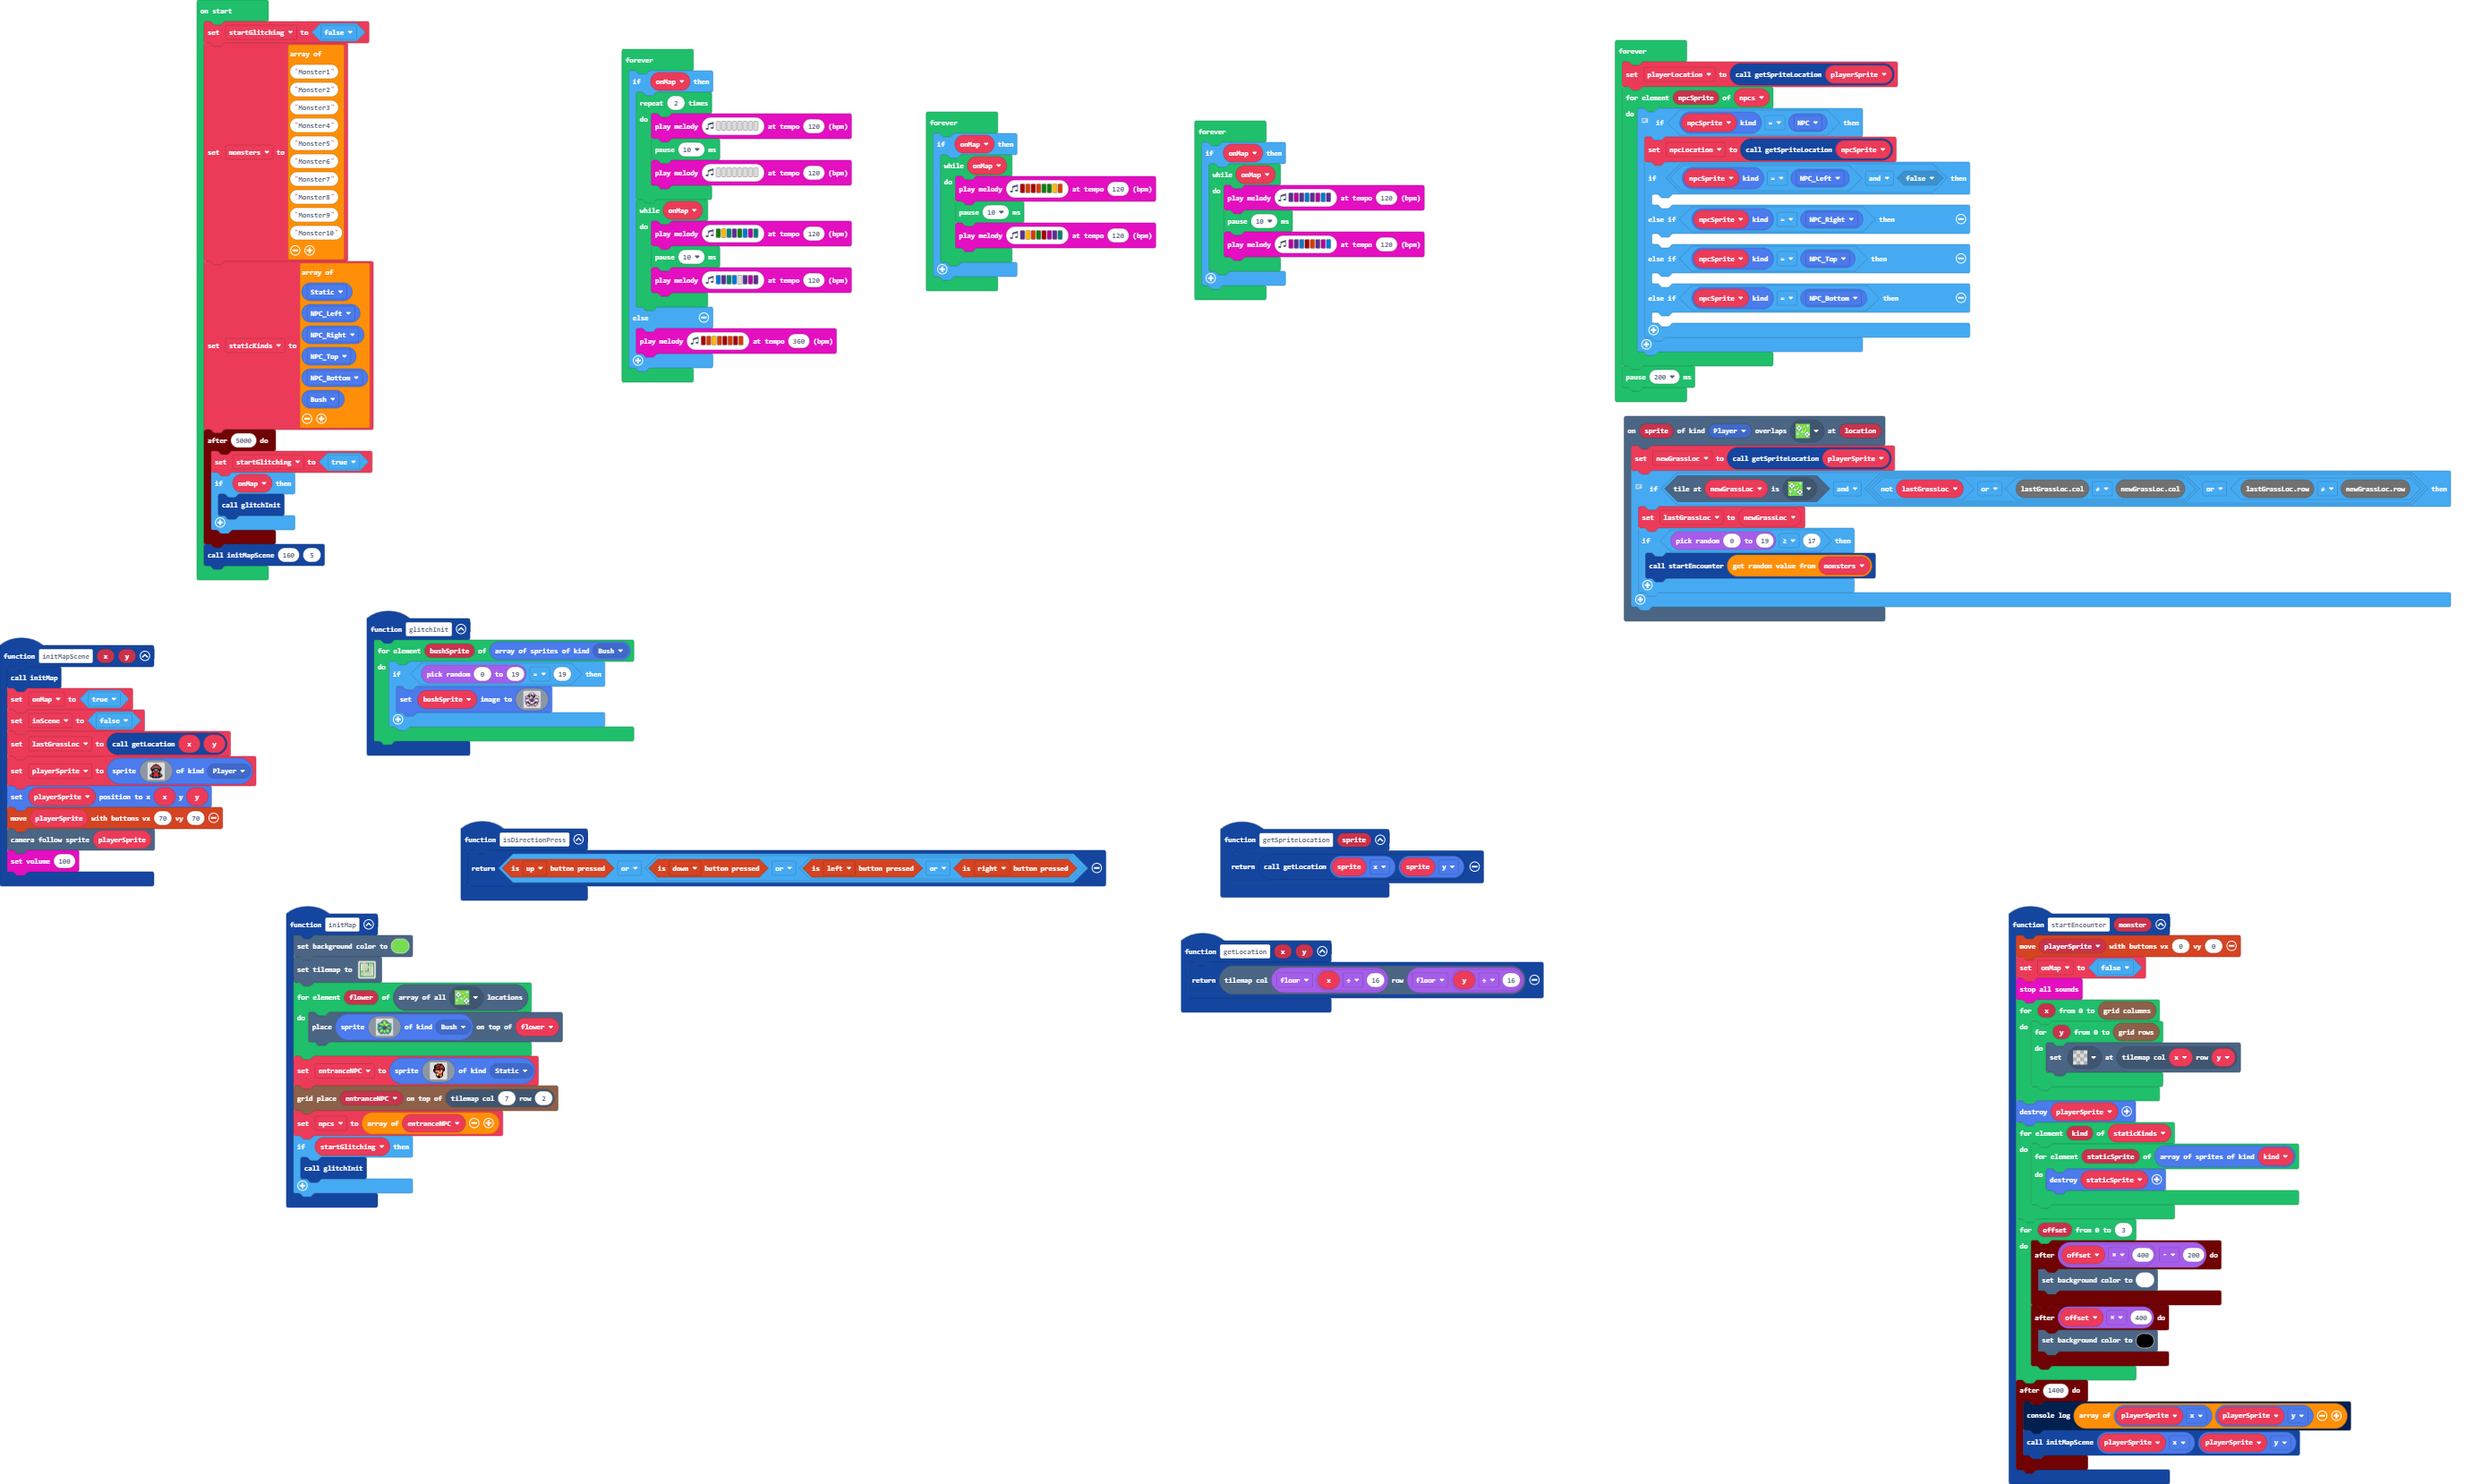
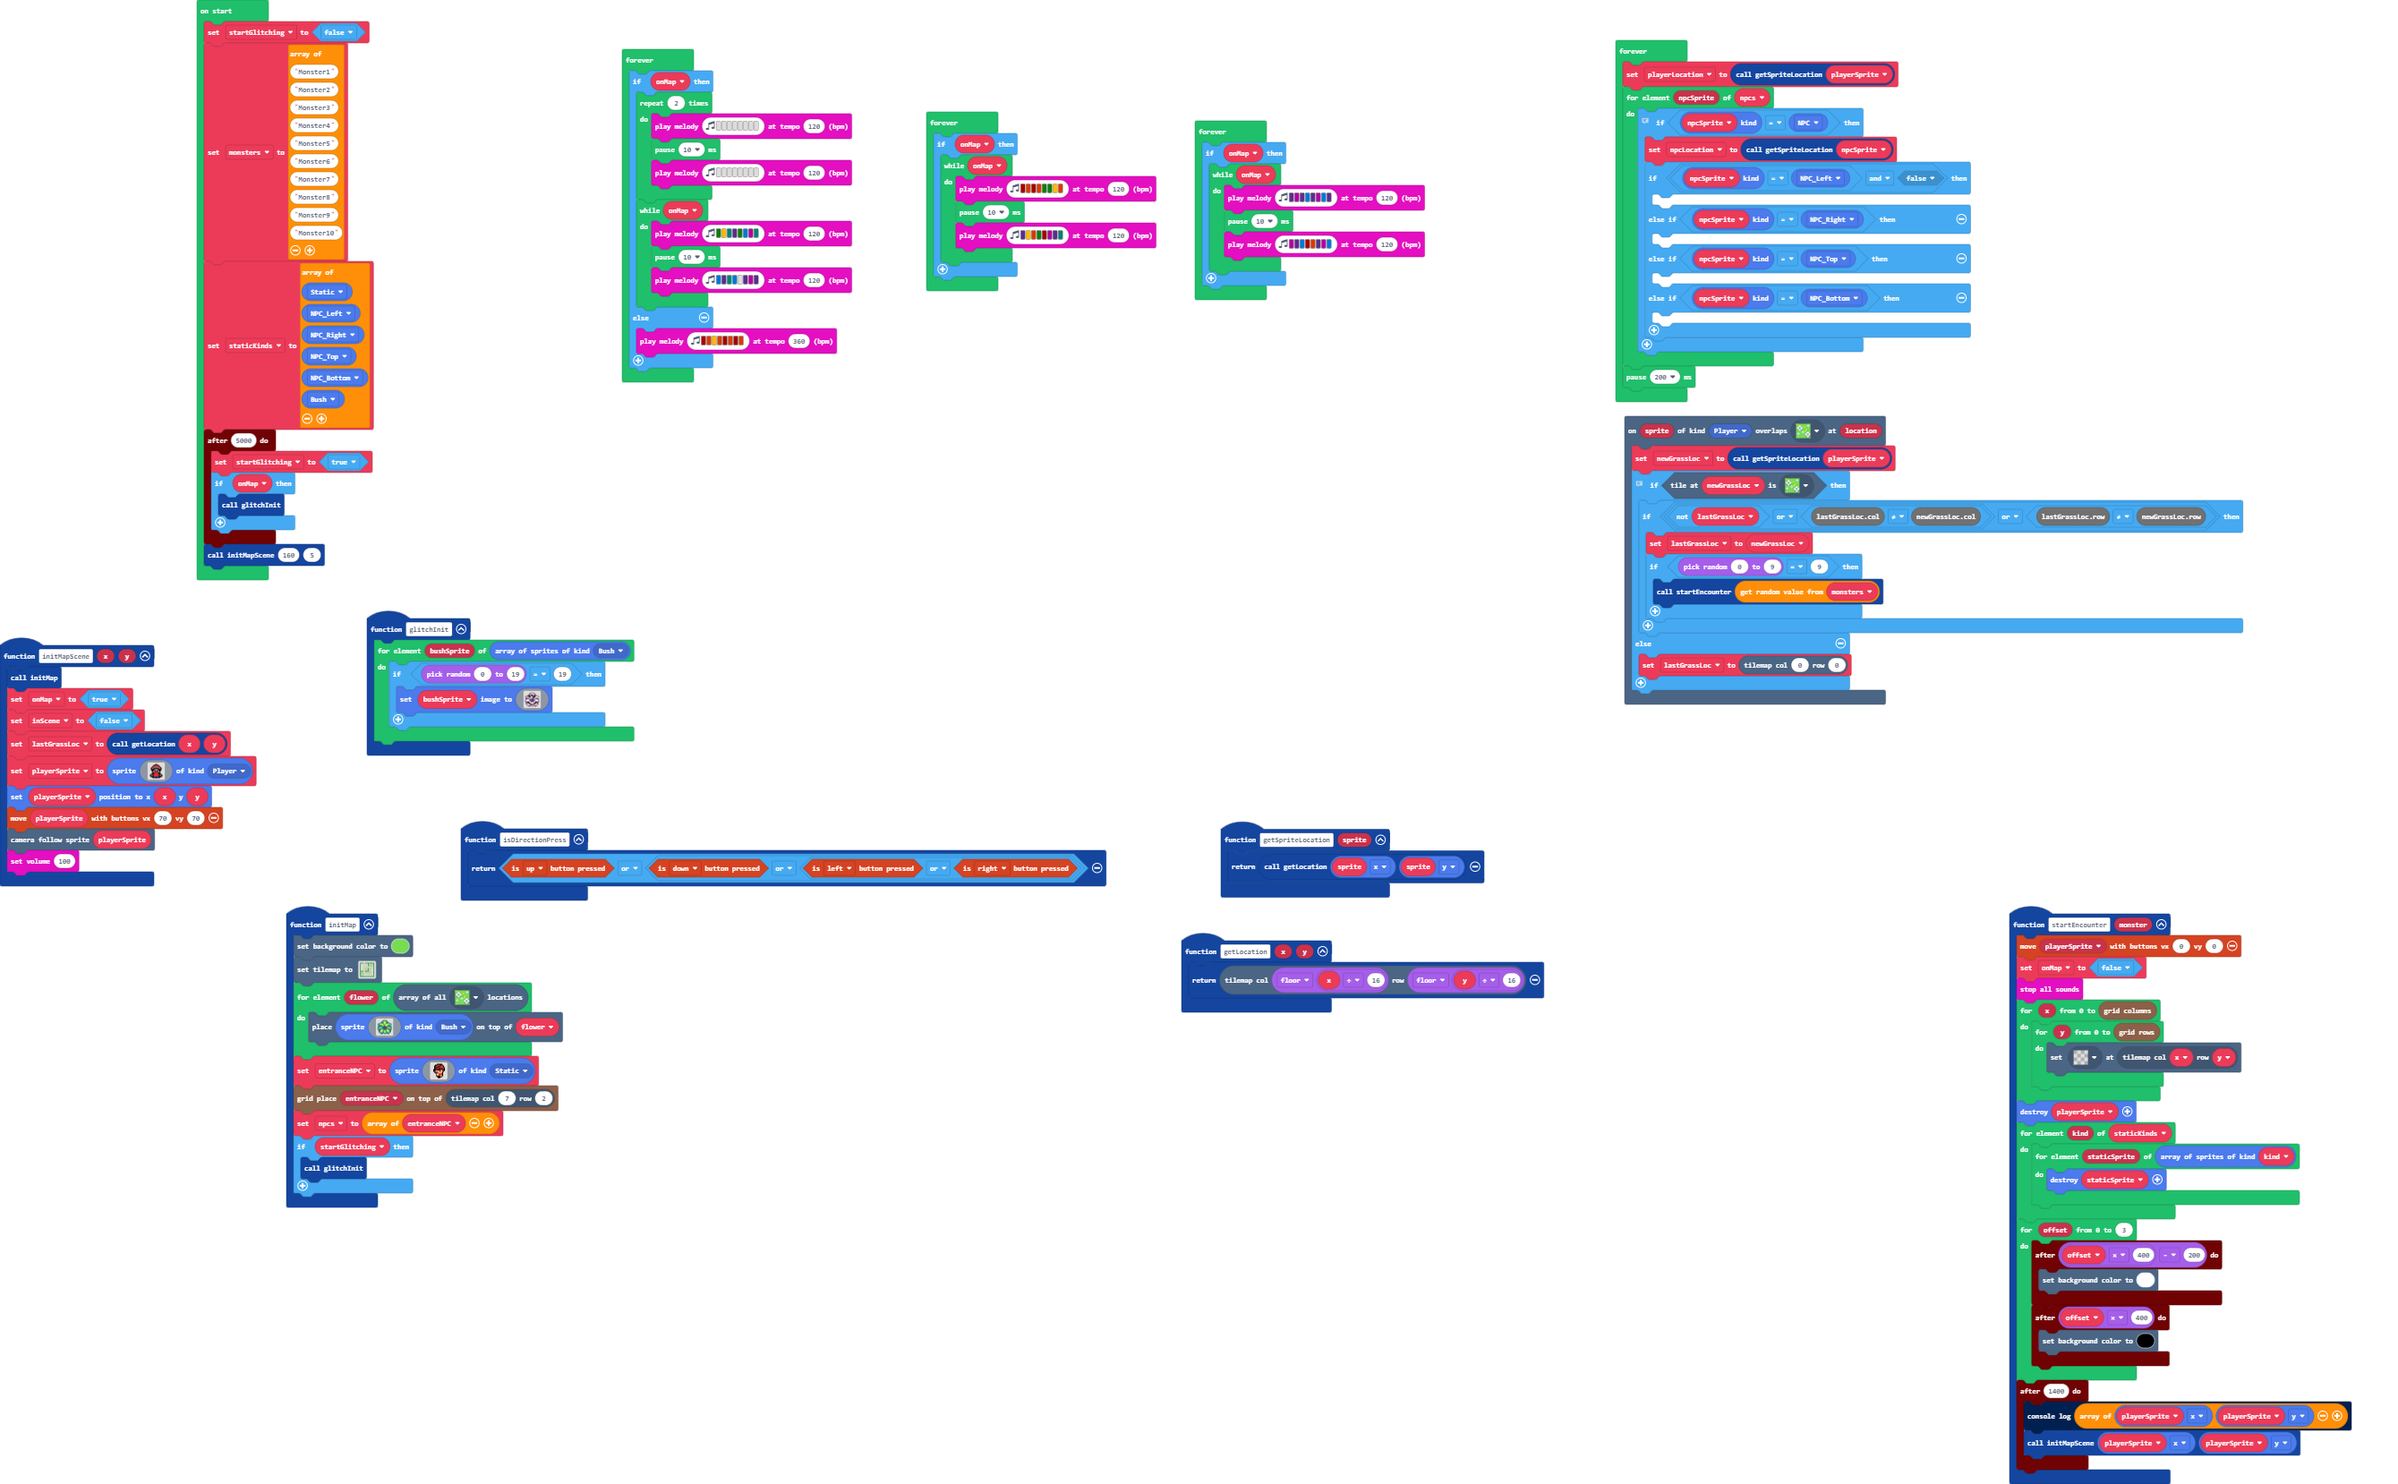
Update main.blocks, main.ts, tilemap.g.jres, tilemap.g.ts, images.g.jres, images.g.ts

diff --git a/tilemap.g.ts b/tilemap.g.ts
@@ -59,6 +59,25 @@ namespace myTiles {
 . . . . . . . . . . . . . . . . 
 . . . . . . . . . . . . . . . . 
 `, [], -Infinity);
+            case "level3":
+            case "level3":return tiles.createTilemap(hex`1000100000000000000000000000000000000000000000000000000000000000000000000000000000000000000000000000000000000000000000000000000000000000000000000000000000000000000000000000000000000000000000000000000000000000000000000000000000000000000000000000000000000000000000000000000000000000000000000000000000000000000000000000000000000000000000000000000000000000000000000000000000000000000000000000000000000000000000000000000000000000000000000000000000000000000000000000000000000000000000000000000000000000000000000000000000000000`, img`
+. . . . . . . . . . . . . . . . 
+. . . . . . . . . . . . . . . . 
+. . . . . . . . . . . . . . . . 
+. . . . . . . . . . . . . . . . 
+. . . . . . . . . . . . . . . . 
+. . . . . . . . . . . . . . . . 
+. . . . . . . . . . . . . . . . 
+. . . . . . . . . . . . . . . . 
+. . . . . . . . . . . . . . . . 
+. . . . . . . . . . . . . . . . 
+. . . . . . . . . . . . . . . . 
+. . . . . . . . . . . . . . . . 
+. . . . . . . . . . . . . . . . 
+. . . . . . . . . . . . . . . . 
+. . . . . . . . . . . . . . . . 
+. . . . . . . . . . . . . . . . 
+`, [myTiles.transparency16], TileScale.Sixteen);
         }
         return null;
     })

diff --git a/main.ts b/main.ts
@@ -67,11 +67,15 @@ function isDirectionPress () {
 scene.onOverlapTile(SpriteKind.Player, sprites.castle.tileGrass2, function (sprite, location) {
     newGrassLoc = getSpriteLocation(playerSprite)
     // Checking if the tile is flowers because this event is hyper sensitive
-    if (tiles.tileAtLocationEquals(newGrassLoc, sprites.castle.tileGrass2) && (!(lastGrassLoc) || lastGrassLoc.col != newGrassLoc.col || lastGrassLoc.row != newGrassLoc.row)) {
-        lastGrassLoc = newGrassLoc
-        if (randint(0, 19) >= 17) {
-            startEncounter(monsters._pickRandom())
+    if (tiles.tileAtLocationEquals(newGrassLoc, sprites.castle.tileGrass2)) {
+        if (!(lastGrassLoc) || lastGrassLoc.col != newGrassLoc.col || lastGrassLoc.row != newGrassLoc.row) {
+            lastGrassLoc = newGrassLoc
+            if (randint(0, 9) == 9) {
+                startEncounter(monsters._pickRandom())
+            }
         }
+    } else {
+        lastGrassLoc = tiles.getTileLocation(0, 0)
     }
 })
 function initMapScene (x: number, y: number) {

diff --git a/images.g.ts b/images.g.ts
@@ -135,6 +135,25 @@ c b c c b 1 b c c b 1 b c c b c
 . . b b b b c b 1 b c b b b . . 
 . . . b b c . b b b . c b . . . 
 `;
+            case "image4":
+            case "myImage":return img`
+. . . . . . . . . . . . . . . . 
+. . . . . . . . . . . . . . . . 
+. . . . . . . . . . . . . . . . 
+. . . . . . . . . . . . . . . . 
+. . . . . . . . . . . . . . . . 
+. . . . . . . . . . . . . . . . 
+. . . . . . . . . . . . . . . . 
+. . . . . . . . . . . . . . . . 
+. . . . . . . . . . . . . . . . 
+. . . . . . . . . . . . . . . . 
+. . . . . . . . . . . . . . . . 
+. . . . . . . . . . . . . . . . 
+. . . . . . . . . . . . . . . . 
+. . . . . . . . . . . . . . . . 
+. . . . . . . . . . . . . . . . 
+. . . . . . . . . . . . . . . . 
+`;
         }
         return null;
     })
